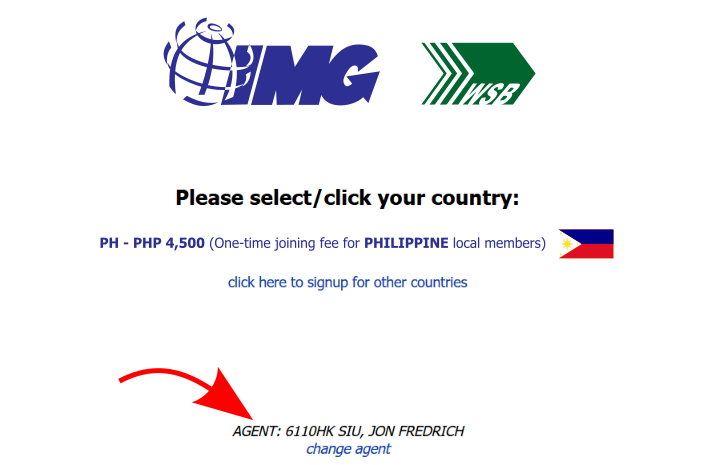
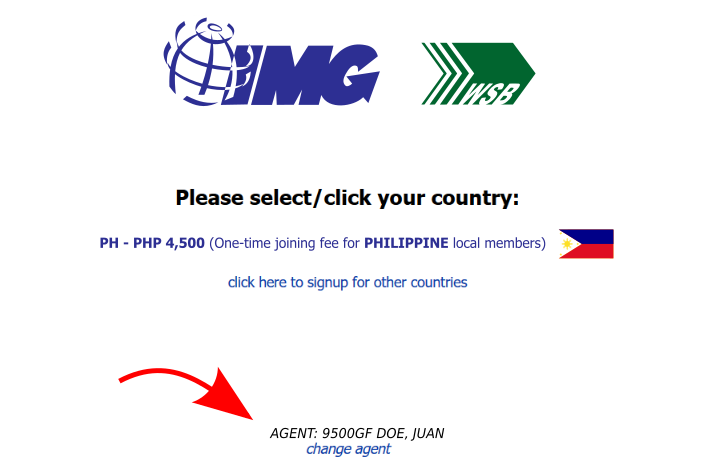
ltc

Changed region(s): [[0.3286, 0.9032, 0.6572, 0.9634]]

diff --git a/src/pages/joining.js b/src/pages/joining.js
@@ -71,8 +71,8 @@ const Joining = (props) => (
                         <div className="grid-wrapper">              
                             <div className="col-6">
                                 <h3>Step 1 - Registration Site</h3>
-                                <p>Click the "REGISTER" button and it will open another window to the IMG registration site.  <a href="https://img-corp.net/register.php?agentcode=6110hk" 
-                                        target="_blank" rel="noopener noreferrer" className="button next">Register</a></p>                           
+                                <p>Click the "REGISTER" button and it will open another window to the IMG registration site. 
+                                    <a href="https://img-corp.net/register.php" target="_blank" rel="noopener noreferrer" className="button next">Register</a></p>                           
                                 {/* <ul className="actions">                                
                                     <li><a href="https://img-corp.net/register.php?agentcode=6110hk" 
                                         target="_blank" rel="noopener noreferrer" className="button next">Register</a>
@@ -87,16 +87,15 @@ const Joining = (props) => (
                             <div className="col-6">
                                 <h3>Step 2 - Confirm Agent's Name</h3>
                                 <p>Check the "AGENT" name below - this should be your Sponsor's name.   Change agent if necessary.</p>
-                                <p><i>Note: The default AGENT is SIU, JON FREDRICH.</i></p>
                                 <ContainerCard>
                                     {/* <p> If you're ABROAD it's like this <i className="icon fa-arrow-down"/></p> */}
-                                    <p>If you are referred by another, ask for your Sponsor's AgentCode and change agent accordingly.</p>
+                                    <p>Ask for your Sponsor's AgentCode and <b>change agent</b> accordingly.</p>
                                     <span className="image fit"><Img fluid={props.data.image02.childImageSharp.fluid} /></span>
                                 </ContainerCard>                                               
                             </div>
                             <div className="col-12">
                                 <h3>Step 3 - Fill up the Form </h3>
-                                <p>Carefully and Accurately fillup the form</p>                               
+                                <p>Carefully and Accurately fill up the form</p>                               
                                 <ContainerCard>
                                     <span className="image fit"><Img fluid={props.data.image03.childImageSharp.fluid} /></span>
                                     <span className="image fit"><Img fluid={props.data.image04.childImageSharp.fluid} /></span>
@@ -113,12 +112,13 @@ const Joining = (props) => (
                             <div className="col-4">
                                 <h3>Step 5 - Checkout</h3>                                
                                 <ContainerCard>
-                                    <p>Fillup the billing information then click next.</p>
+                                    <p>Fill up the billing information then click next.</p>
                                     <span className="image fit"><Img fluid={props.data.image07.childImageSharp.fluid} /></span>
                                 </ContainerCard>                                               
                             </div>
                             <div className="col-4">
-                                <h3>Step 6 - Choose Bank for Bank Deposit Payment</h3>                                
+                                <h3>Step 6 - For Bank Deposit Payment</h3>
+                                <p>Choose Your Bank</p>                             
                                 <ContainerCard>
                                     <p></p>
                                     <span className="image fit"><Img fluid={props.data.image08.childImageSharp.fluid} /></span>
@@ -127,7 +127,7 @@ const Joining = (props) => (
 
                             <div className="col-4">
                                 <h3>Step 7 - Send Proof of Verification</h3>
-                                <p>If the Deposit has been done then you may send the proof to this link.</p>
+                                <p>If the Deposit has been made you may send the proof to this link.</p>
                                 <ContainerCard>
                                     <p>Note: Same link is received on new member's email allowing to proceed (if deposit is not done yet).</p>
                                     <span className="image fit"><Img fluid={props.data.image09.childImageSharp.fluid} /></span>

diff --git a/src/pages/privileges/healthcareandinsurance/longterm.js b/src/pages/privileges/healthcareandinsurance/longterm.js
@@ -36,12 +36,16 @@ const ContainerCard = styled.div`
     padding: 25px;
     margin: 1px;   
     `
-
+    const Ulist = styled.ul`  
+    list-style-type: none;
+    color:white;
+  `
+    
 const Longterm = (props) => (
     <Layout>
         <Helmet>
-            <title>Long term care</title>
-            <meta name="description" content="Healthcare and Insurance Page" />
+            <title>Long Term Care</title>
+            <meta name="description" content="Long Term Care - IMG Channel" />
         </Helmet>
         <div id="main" className="alt">
             <section id="one">
@@ -49,15 +53,34 @@ const Longterm = (props) => (
                     <header className="major">
                         <h1>Long term care</h1>
                     </header>
+                    <p>The Ultimate Kaiser Health Builder plan brings together the best features of</p>
+                    <Ulist>                                 
+                        <li className="icon fa-check-square-o"> Long Term Health Coverage</li> 
+                        <li className="icon fa-check-square-o"> Life Insurance</li> 
+                        <li className="icon fa-check-square-o"> and Investment</li> 
+                    </Ulist>
                     <ContainerHealth>
-                    <h2>Ultimate Kaiser Health Builder</h2>
+                    <h2>How it Works</h2>
                         <div className="grid-wrapper">              
-                            <div className="col-12">
+                            <div className="col-3">
                             <ContainerCard>
-                                <h3>Long-term care</h3>
+                                <h3>Saving Period</h3>
+                                <p>7 Years to Save</p>
                                 <span className="image fit"><img src={pic09} alt="" /></span>
-                                <p>Nunc lacinia ante nunc ac lobortis. Interdum adipiscing gravida odio porttitor sem non mi integer non faucibus ornare mi ut ante amet placerat aliquet. Volutpat eu sed ante lacinia sapien lorem accumsan varius montes viverra nibh in adipiscing blandit tempus accumsan.</p>
-                                <a href="#" className="button special small">Start now</a>
+                            </ContainerCard>
+                            </div>
+                            <div className="col-6">
+                            <ContainerCard>
+                                <h3>Extended Period</h3>
+                                <p>13 years to Wait</p>
+                                <span className="image fit"><img src={pic09} alt="" /></span>                                
+                            </ContainerCard>
+                            </div>
+                            <div className="col-3">
+                            <ContainerCard>
+                                <h3>Maturity</h3>
+                                <p>Option to get cash value</p>
+                                <span className="image fit"><img src={pic09} alt="" /></span>
                                 </ContainerCard>
                             </div>
                         </div>

diff --git a/src/components/Footer.js b/src/components/Footer.js
@@ -4,14 +4,16 @@ const Footer = (props) => (
     <footer id="footer">
         <div className="inner">
             <ul className="icons">
-                <li><a href="https://www.facebook.com/imgch/" className="icon alt fa-facebook"><span className="label">Facebook</span></a></li>
+                <li><a href="https://www.facebook.com/imgch/" target="_blank" rel="noopener noreferrer" 
+                className="icon alt fa-facebook"><span className="label">Facebook</span></a></li>
+               
                 {/*<li><a href="#" className="icon alt fa-twitter"><span className="label">Twitter</span></a></li>
                 <li><a href="#" className="icon alt fa-instagram"><span className="label">Instagram</span></a></li>
                 <li><a href="#" className="icon alt fa-github"><span className="label">GitHub</span></a></li>
                 <li><a href="#" className="icon alt fa-linkedin"><span className="label">LinkedIn</span></a></li>*/}
             </ul>
             <ul className="copyright">
-                <li>&copy; IMG Channel</li> {/*<li>Design: <a href="https://html5up.net">HTML5 UP</a></li>*/}
+                <li>&copy; www.imgchannel.com</li> {/*<li>Design: <a href="https://html5up.net">HTML5 UP</a></li>*/}
             </ul>
         </div>
     </footer>

diff --git a/src/pages/index.js b/src/pages/index.js
@@ -132,7 +132,7 @@ class HomeIndex extends React.Component {
                                     <hr className="major"/>
                                 </div>
                                 <div className="col-6">
-                                    <p>This website is operated by Jon Siu and team.  They are independent representatives of International Marketing Group (IMG),
+                                    <p>This website is operated by JFS and team.  They are independent representatives of International Marketing Group (IMG),
                                     Headquarters: 9th Flr, King's Court Bldg 1, 2129 Chino Roces Ave, Makati City, Philippines.  Telephone: (02) 812-2551 / Fax: (02) 811-2327
                                     </p>                             
                                     <p>The purpose of this site is to give IMG Members easy access information online about IMG anytime and anywhere.  

diff --git a/src/pages/financialeducator.js b/src/pages/financialeducator.js
@@ -124,7 +124,7 @@ const Financialeducator = (props) => (
                     <Container>
                         <div className="grid-wrapper">              
                             <div className="col-4">
-                                <h3>Personal Finance Mastery</h3>
+                                <h3>Personal Finance Proficiency</h3>
                                 <span className="image fit"><Img fluid={props.data.image02.childImageSharp.fluid} /></span>
                                 <p>Gain knowledge and financial wisdom while having a freelance career.</p>
                                 <hr className="line1"/>

diff --git a/gatsby-config.js b/gatsby-config.js
@@ -47,7 +47,7 @@ module.exports = {
         short_name: 'IMG Channel',
         start_url: '/',
         background_color: '#DCE1E5',
-        theme_color: '#3277B3',
+        theme_color: '#070F29',
         display: 'minimal-ui',
         icon: 'src/assets/images/website-icon.png', // This path is relative to the root of the site.
       },

diff --git a/src/assets/scss/layout/_banner.scss b/src/assets/scss/layout/_banner.scss
@@ -153,7 +153,7 @@
 			&.major {
 				height: auto;
 				min-height: 0;
-				max-height: 19em;
+				max-height: 16em;
 			}
 		}
 
